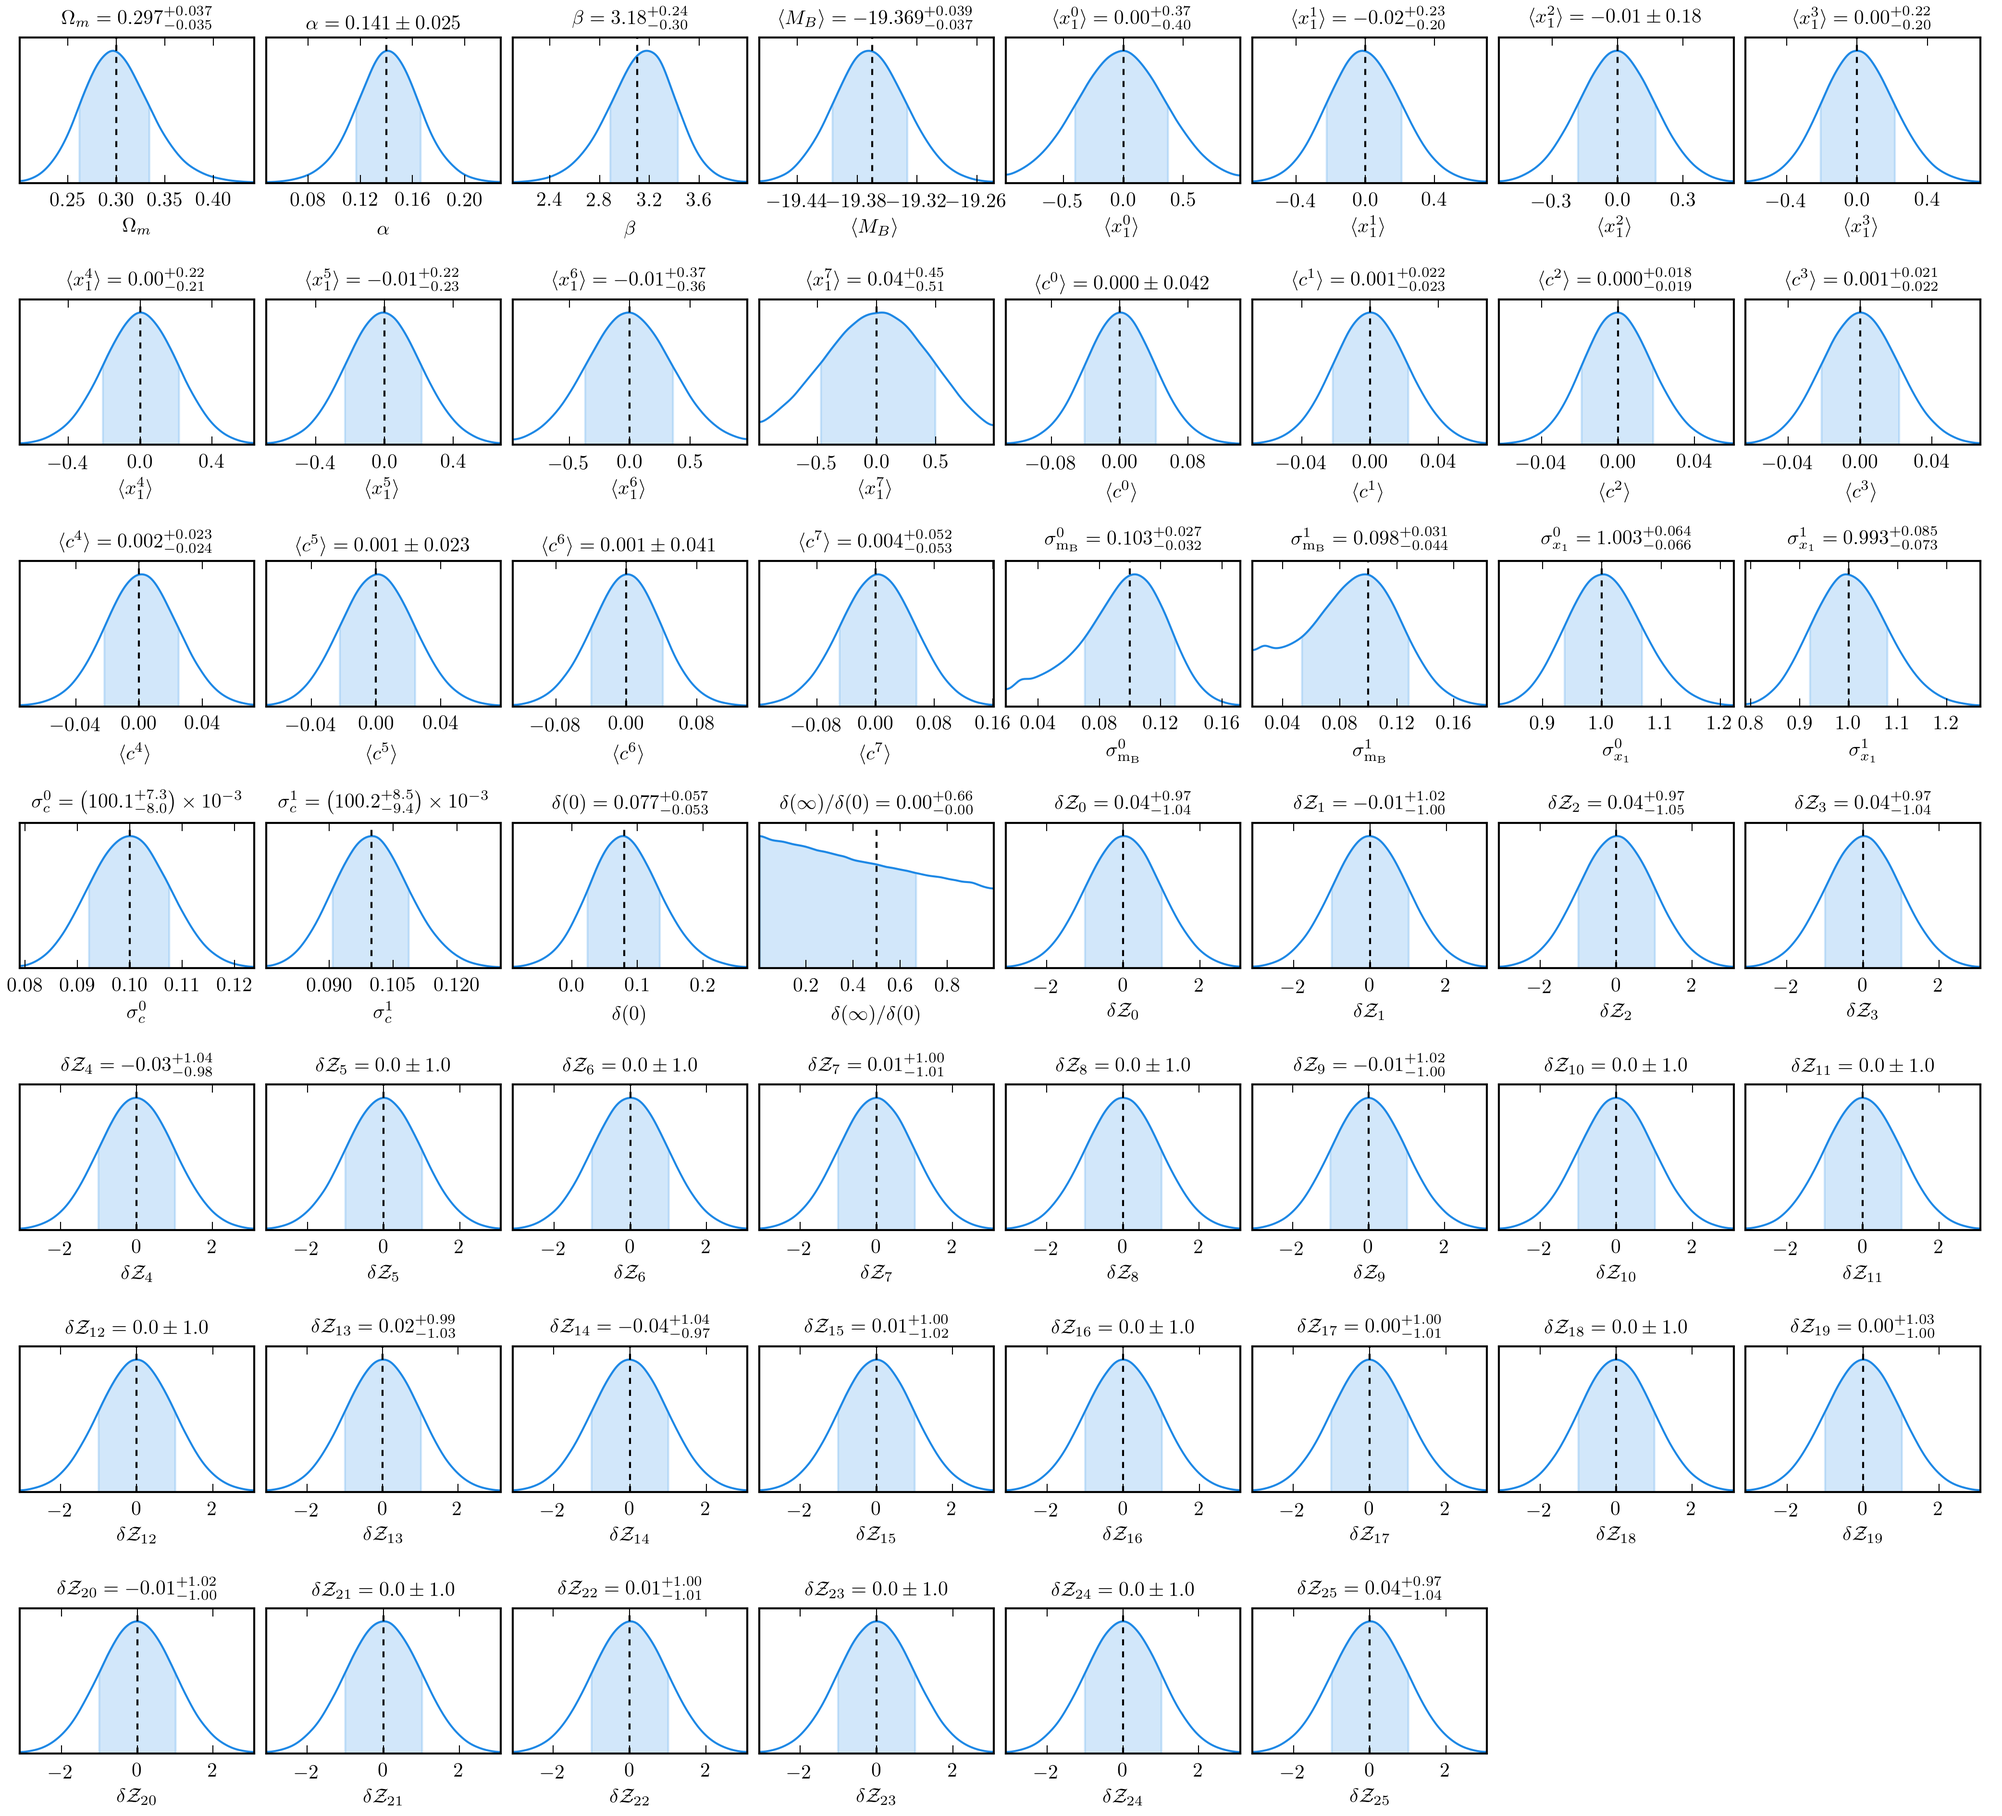
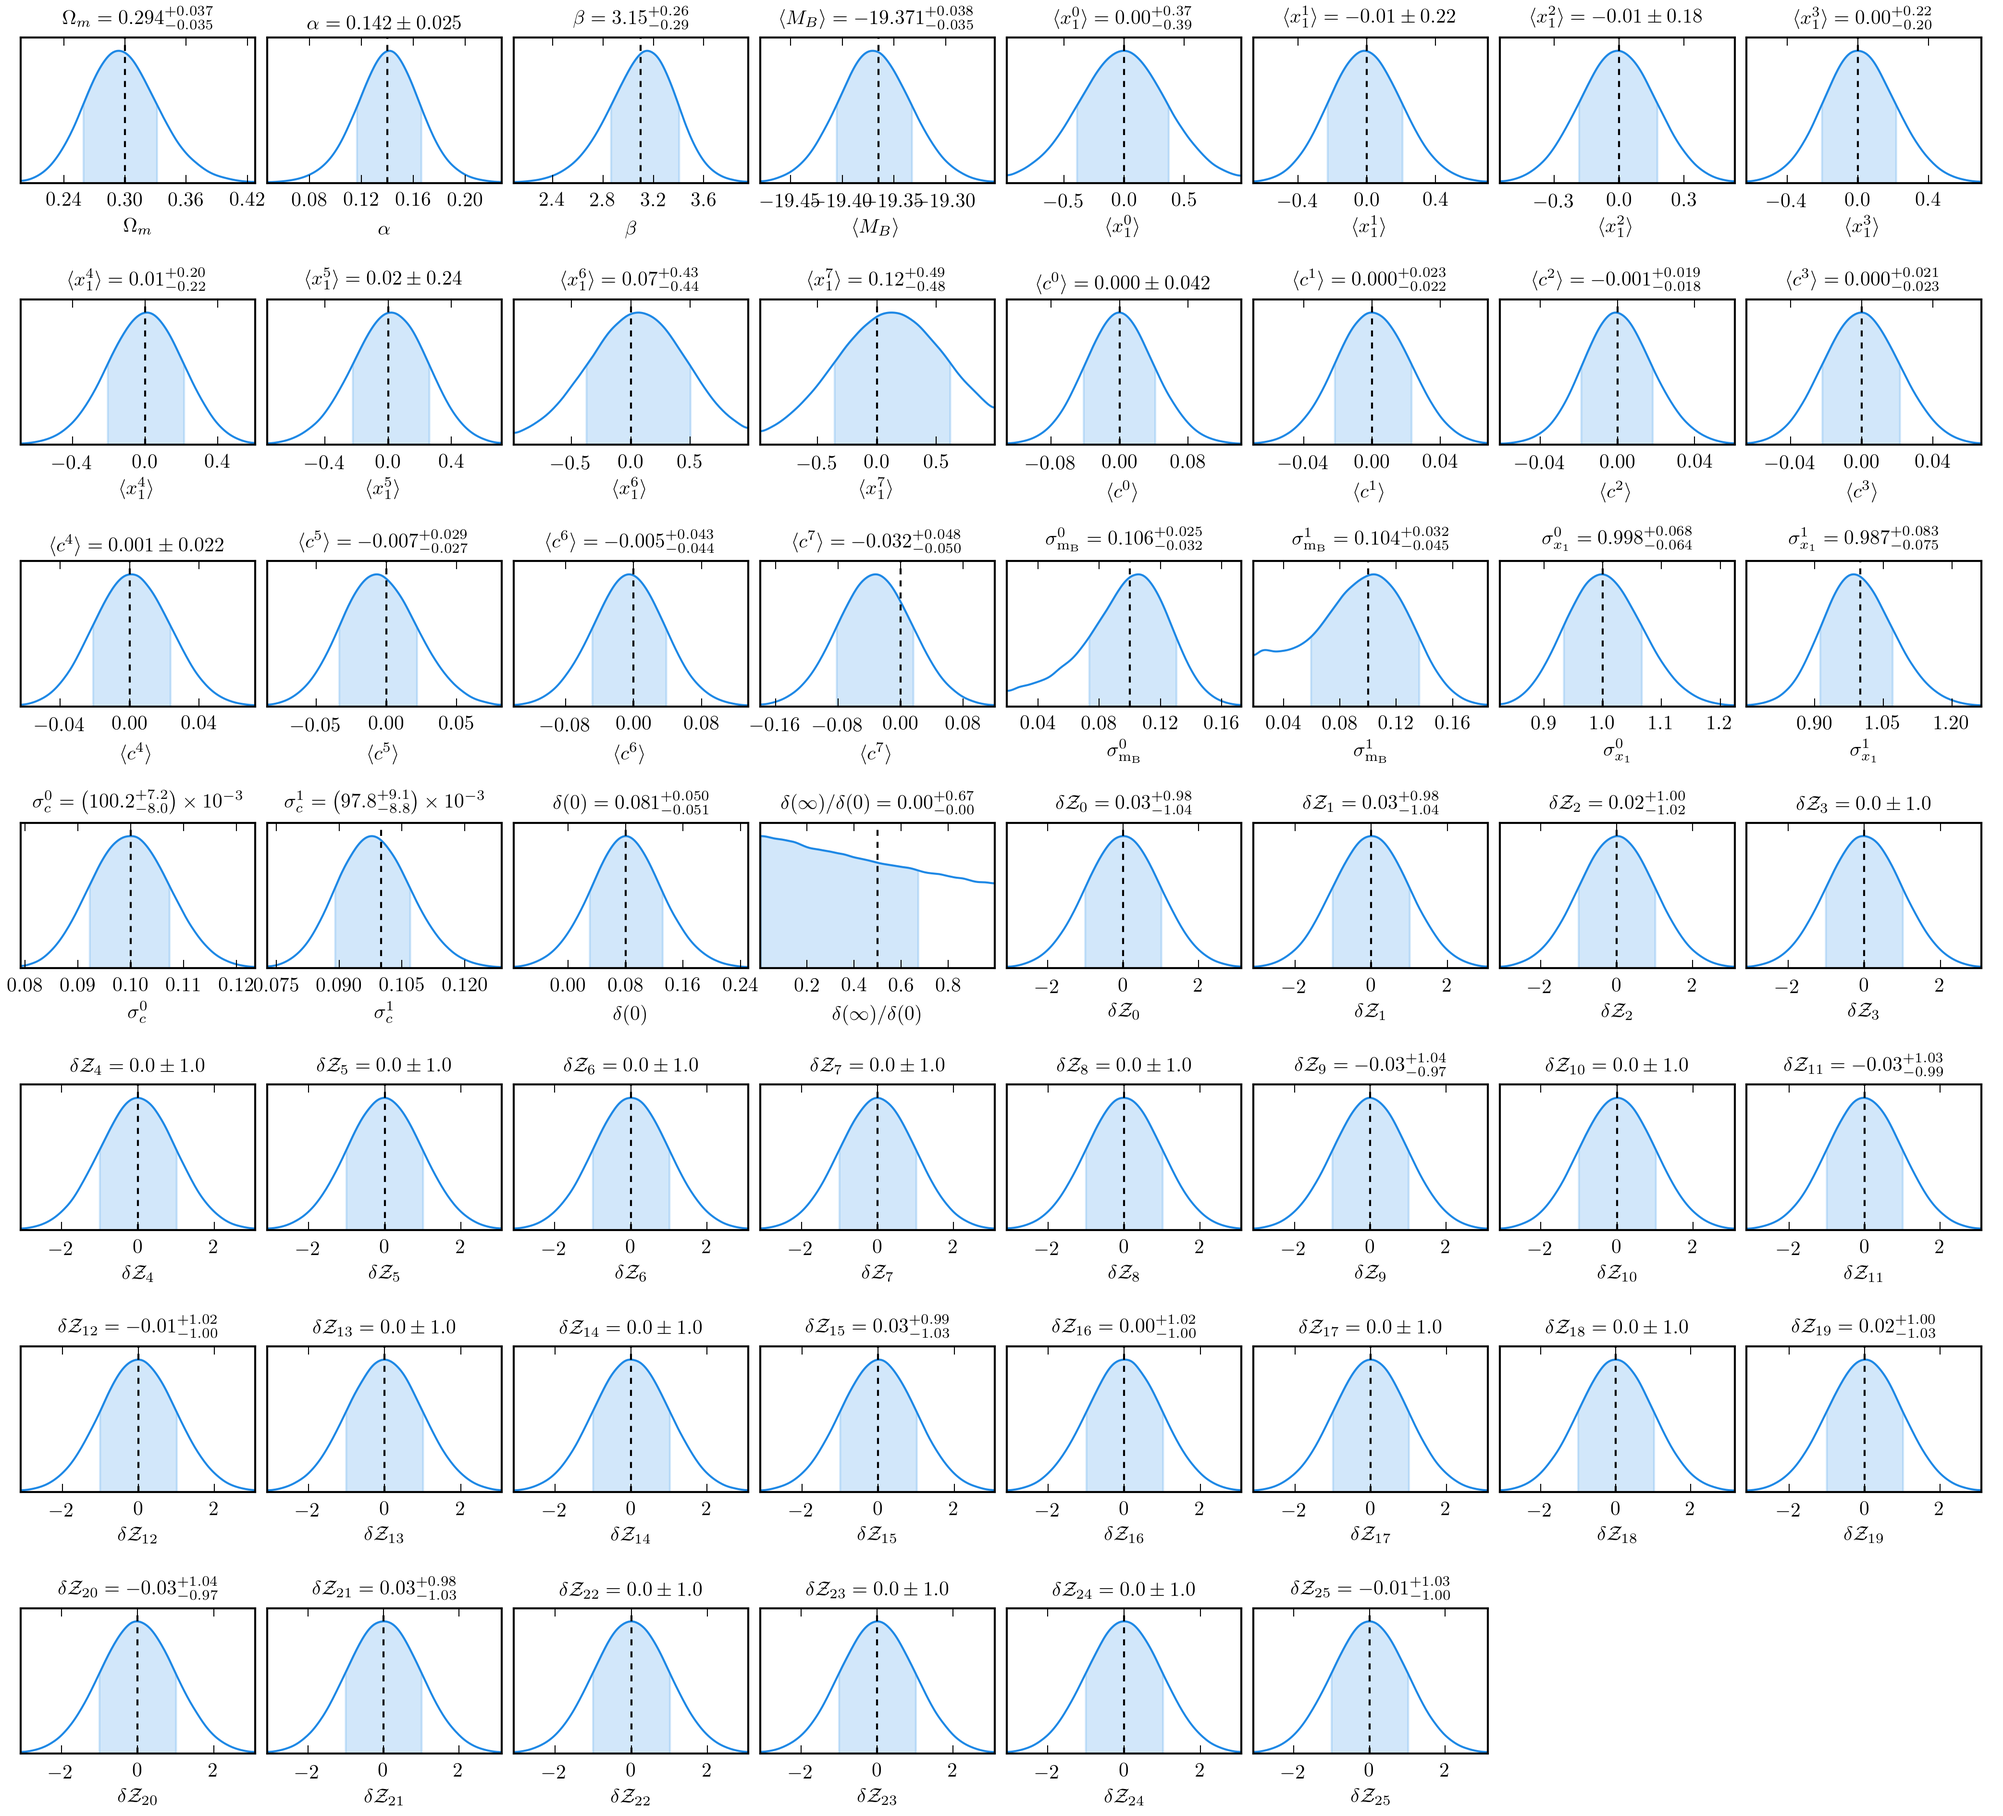
Back to skewnormal for lowz

diff --git a/dessn/configurations/approximate_snana_test.py b/dessn/configurations/approximate_snana_test.py
@@ -21,7 +21,7 @@ if __name__ == "__main__":
 
     model = ApproximateModel()
     # Turn off mass and skewness for easy test
-    simulation = [SNANASimulationLowzGauss0p3(200, manual_selection=[15.3, 1]), SNANASimulationGauss0p3(300)]
+    simulation = [SNANASimulationLowzGauss0p3(200), SNANASimulationGauss0p3(300)]
     # simulation = SNANASimulationGauss0p3(500)
 
     # lowzs, dess = simulation
@@ -31,7 +31,7 @@ if __name__ == "__main__":
     fitter = Fitter(dir_name)
     fitter.set_models(model)
     fitter.set_simulations(simulation)
-    fitter.set_num_cosmologies(100)
+    fitter.set_num_cosmologies(300)
     fitter.set_num_walkers(1)
 
     h = socket.gethostname()
